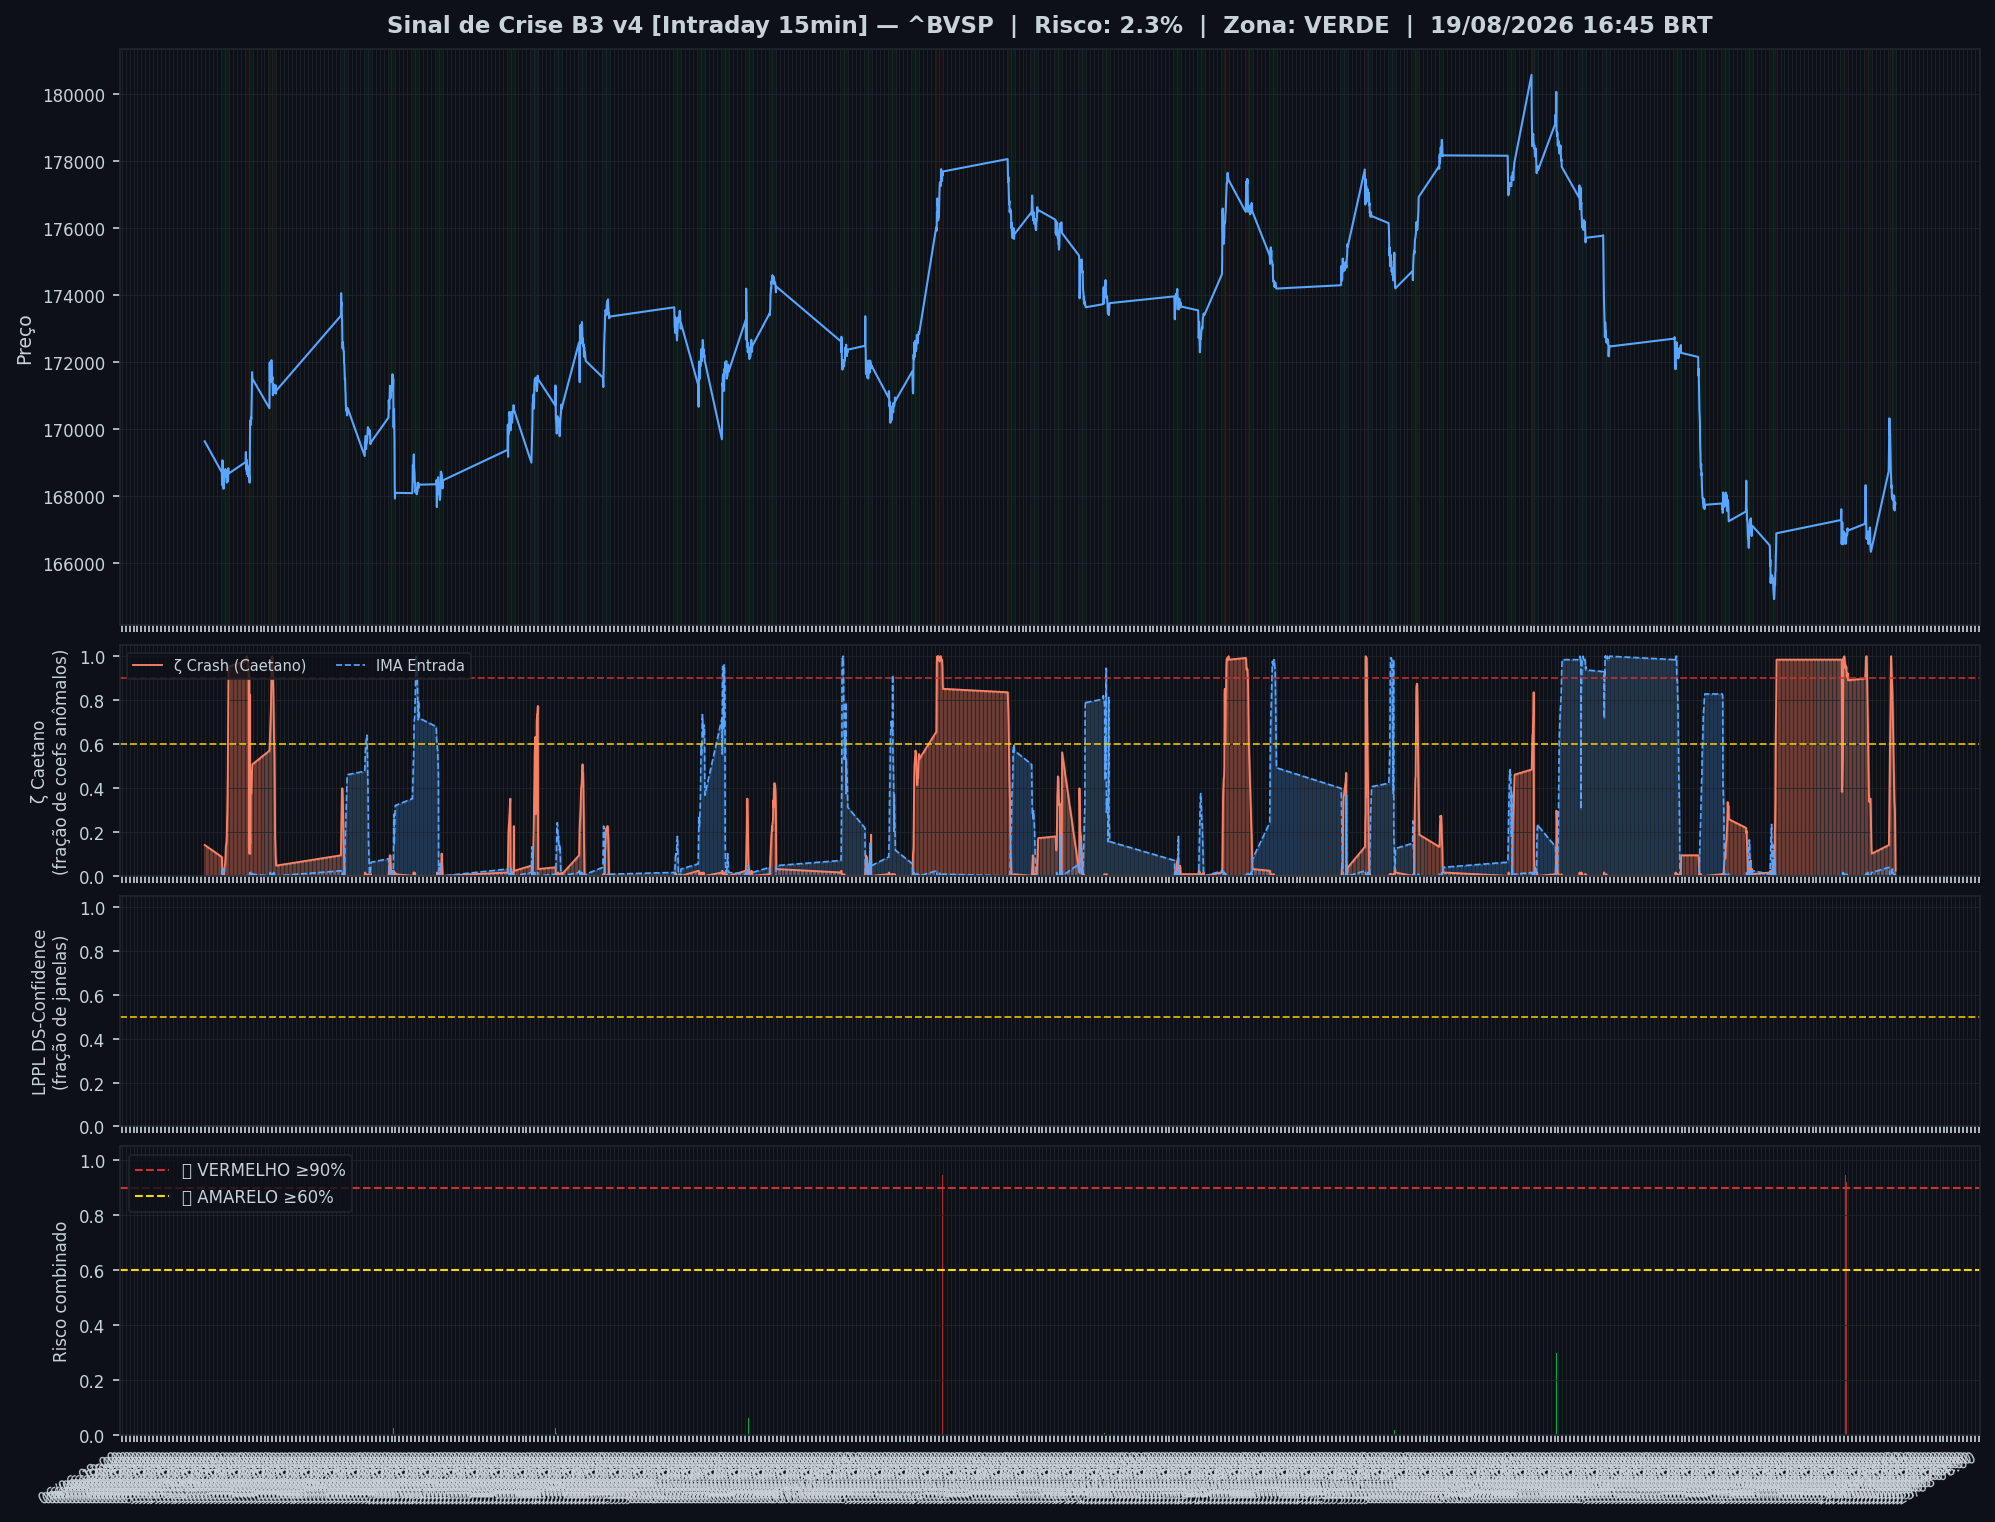
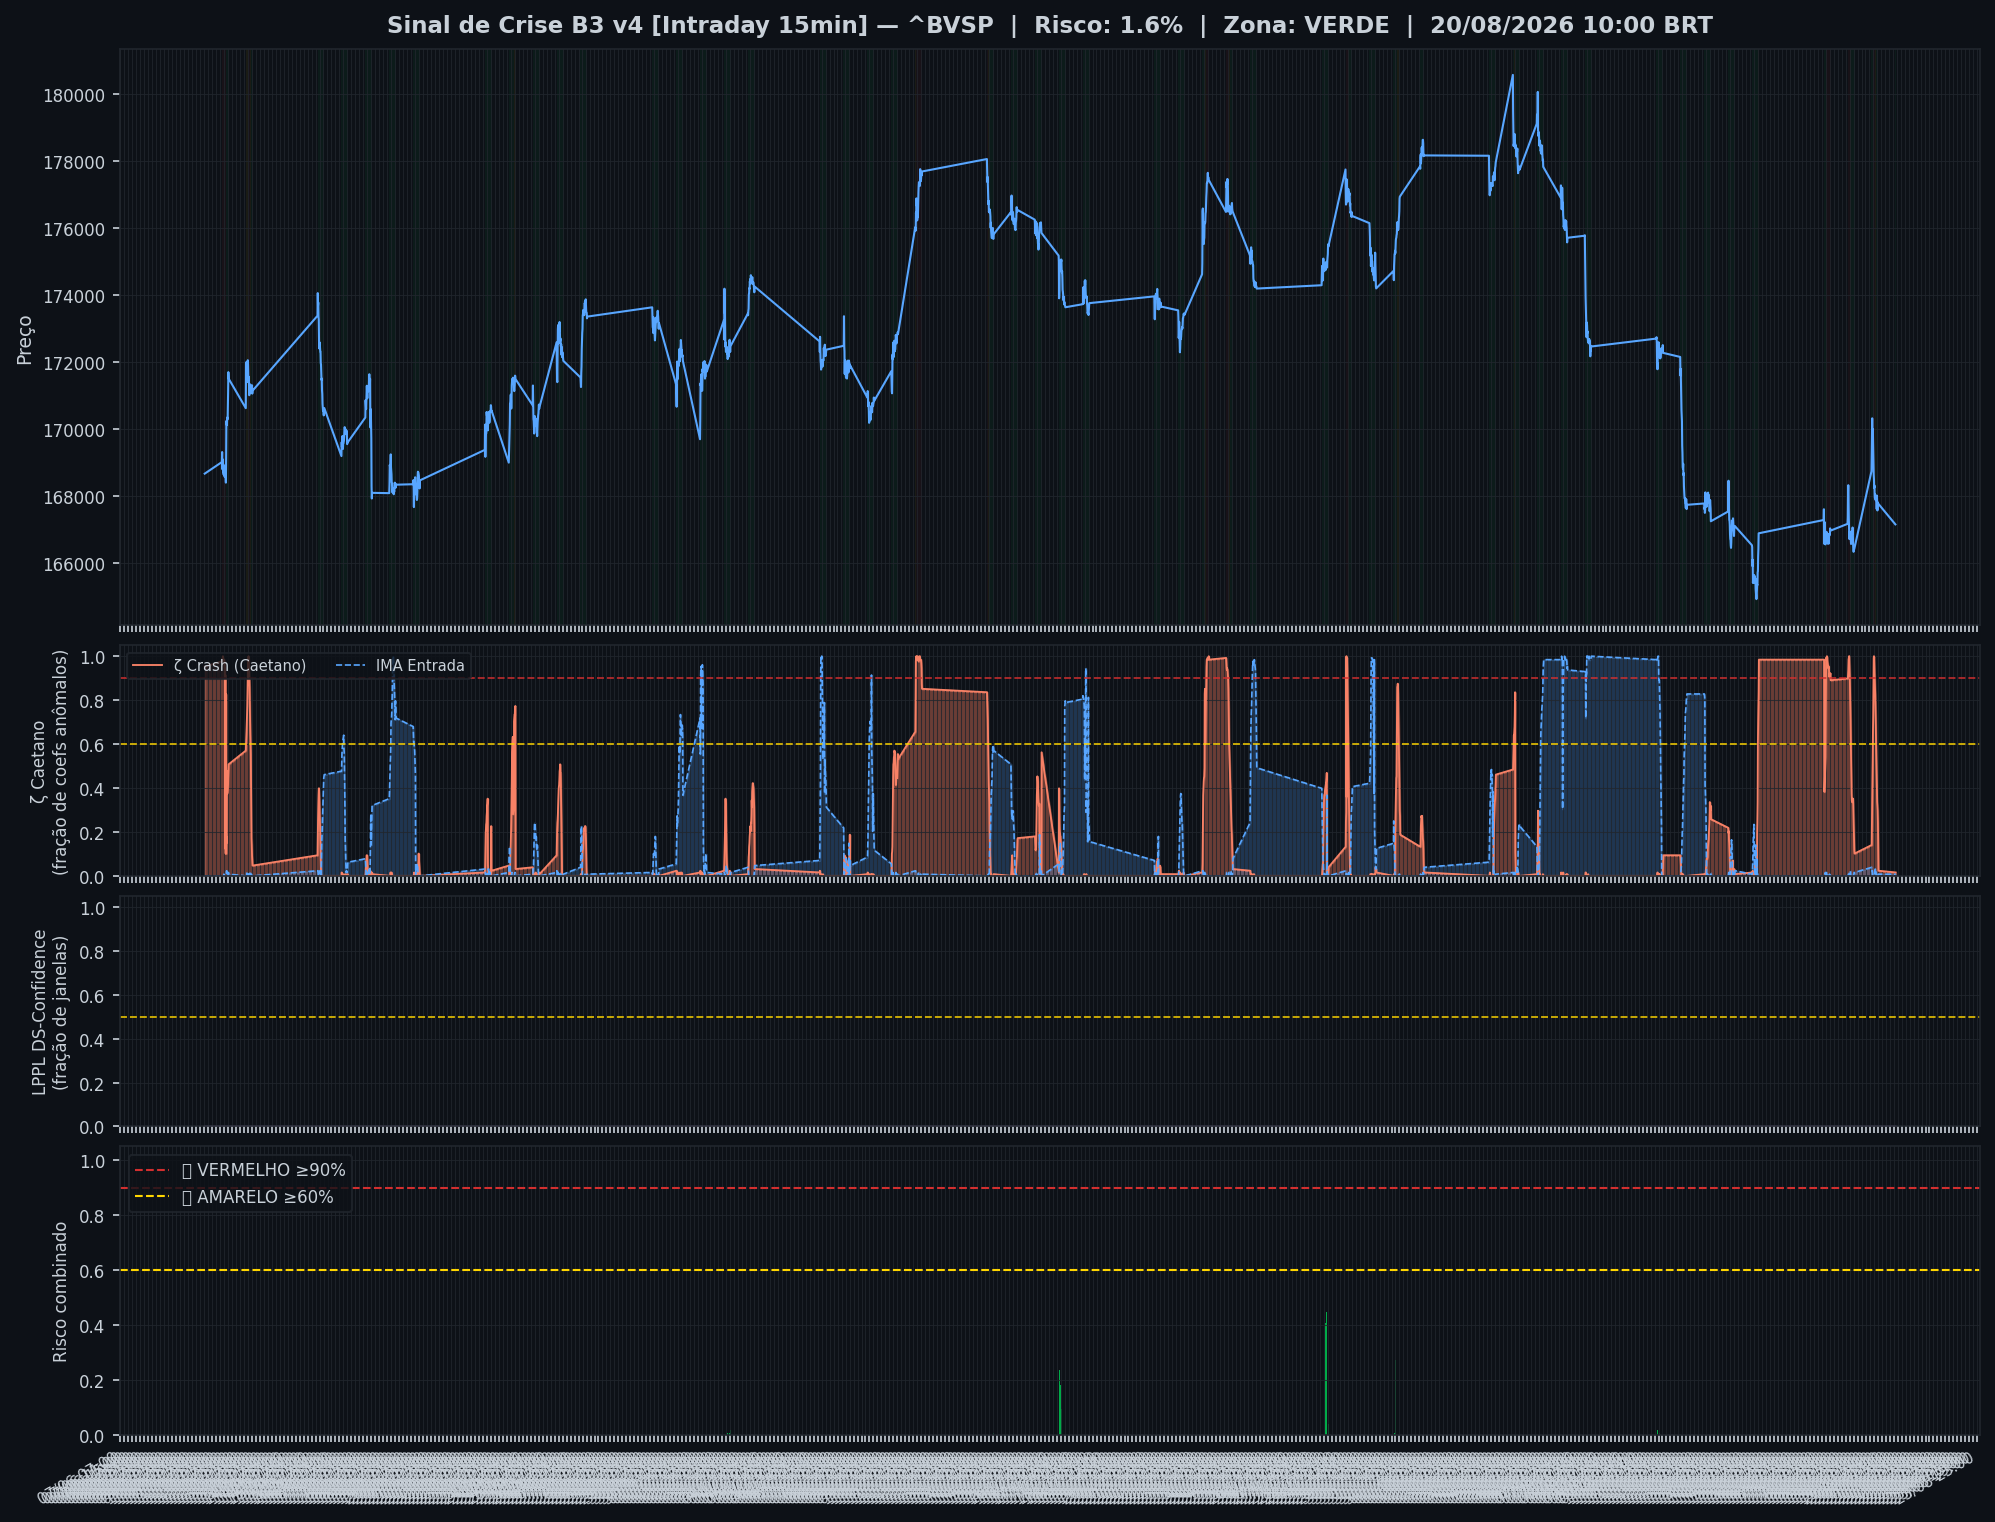
🤖 Auto: Sinal 20/08/2026 10:45

diff --git a/content/intraday/2026-08-20.md b/content/intraday/2026-08-20.md
@@ -1,0 +1,104 @@
+---
+title: "🟢 Intraday 20/08/2026 10:00 BRT — VERDE"
+date: 2026-08-20
+tags: [intraday]
+---
+
+> [!success] 🟢 **VERDE** — Risco 2% · ▼ -1 p.p. vs leitura anterior
+> `░░░░░░░░░░░░░░░░░░░░`
+> Mercado sem sinais relevantes de estresse.
+
+
+| Indicador | Valor |
+|---|---|
+| 🔴 ζ Crash — severidade da queda em curso | **2%** |
+| 🔵 ζ Entrada — estrutura de fundo | 1% |
+| 🫧 LPPL DS-Confidence | 0% |
+| 📊 Ibovespa | 167.143 pts |
+
+![Gráfico do sinal](../graficos/sinal_intraday.png)
+
+## Últimos 30 pregões
+
+| Data | Zona | Risco | IMA Crash | Entrada | LPPL |
+|---|---|---|---|---|---|
+| 2026-08-20 10:00 | 🟢 VERDE | **2%** | 2% | 1% | 0% |
+| 2026-08-19 16:45 | 🟢 VERDE | **2%** | 2% | 1% | 0% |
+| 2026-08-19 16:30 | 🟢 VERDE | **14%** | 14% | 1% | 0% |
+| 2026-08-19 16:15 | 🟢 VERDE | **24%** | 24% | 0% | 0% |
+| 2026-08-19 16:00 | 🟢 VERDE | **30%** | 30% | 1% | 0% |
+| 2026-08-19 15:45 | 🟢 VERDE | **32%** | 32% | 1% | 0% |
+| 2026-08-19 15:30 | 🟢 VERDE | **34%** | 34% | 0% | 0% |
+| 2026-08-19 15:15 | 🟢 VERDE | **39%** | 39% | 0% | 0% |
+| 2026-08-19 15:00 | 🟢 VERDE | **45%** | 45% | 0% | 0% |
+| 2026-08-19 14:45 | 🟡 AMARELO | **50%** | 50% | 0% | 0% |
+| 2026-08-19 14:30 | 🟡 AMARELO | **55%** | 55% | 1% | 0% |
+| 2026-08-19 14:15 | 🟡 AMARELO | **63%** | 63% | 2% | 0% |
+| 2026-08-19 14:00 | 🟡 AMARELO | **71%** | 71% | 2% | 0% |
+| 2026-08-19 13:45 | 🔴 VERMELHO | **77%** | 77% | 2% | 0% |
+| 2026-08-19 13:30 | 🔴 VERMELHO | **83%** | 83% | 3% | 0% |
+| 2026-08-19 13:15 | 🔴 VERMELHO | **86%** | 86% | 2% | 0% |
+| 2026-08-19 13:00 | 🔴 VERMELHO | **89%** | 89% | 2% | 0% |
+| 2026-08-19 12:45 | 🔴 VERMELHO | **93%** | 93% | 1% | 0% |
+| 2026-08-19 12:30 | 🔴 VERMELHO | **96%** | 96% | 0% | 0% |
+| 2026-08-19 12:15 | 🔴 VERMELHO | **100%** | 100% | 0% | 0% |
+| 2026-08-19 12:00 | 🔴 VERMELHO | **99%** | 99% | 0% | 0% |
+| 2026-08-19 11:45 | 🟡 AMARELO | **88%** | 88% | 0% | 0% |
+| 2026-08-19 11:30 | 🟡 AMARELO | **73%** | 73% | 0% | 0% |
+| 2026-08-19 11:15 | 🟡 AMARELO | **66%** | 66% | 0% | 0% |
+| 2026-08-19 11:00 | 🟢 VERDE | **58%** | 58% | 0% | 0% |
+| 2026-08-19 10:45 | 🟢 VERDE | **51%** | 51% | 1% | 0% |
+| 2026-08-19 10:30 | 🟢 VERDE | **38%** | 38% | 2% | 0% |
+| 2026-08-19 10:15 | 🟢 VERDE | **25%** | 25% | 2% | 0% |
+| 2026-08-19 10:00 | 🟢 VERDE | **14%** | 14% | 4% | 0% |
+| 2026-08-18 16:45 | 🟢 VERDE | **10%** | 10% | 2% | 0% |
+
+## Monitor Multi-Ativo
+
+**0% dos ativos em tensão** (0🔴 0🟡) — quanto mais ativos disparam juntos, mais confiável o sinal.
+
+| Zona | Ativo | Setor | IMA Crash | IMA Entrada |
+|---|---|---|---|---|
+| 🟢 | **USD/BRL** | Câmbio | 8.6% | 0.8% |
+| 🟢 | **VALE** | Mineração | 4.7% | 0.8% |
+| 🟢 | **ITAUUNIBANCO** | Financeiro | 4.7% | 0.8% |
+| 🟢 | **PETROBRAS** | Petróleo | 4.7% | 0.8% |
+| 🟢 | **AXIA ENERGIA** | Energia | 4.7% | 0.8% |
+| 🟢 | **PETROBRAS** | Petróleo | 4.7% | 0.8% |
+| 🟢 | **BRADESCO** | Financeiro | 4.7% | 0.8% |
+| 🟢 | **ITAUSA** | Financeiro | 4.7% | 0.8% |
+| 🟢 | **WEG** | Industrial | 4.7% | 0.8% |
+| 🟢 | **B3** | Financeiro | 4.7% | 0.8% |
+| 🟢 | **EMBRAER** | Outros | 4.7% | 0.8% |
+| 🟢 | **SABESP** | Saneamento | 4.7% | 0.8% |
+| 🟢 | **AMBEV S/A** | Consumo | 4.7% | 0.8% |
+| 🟢 | **BTGP BANCO** | Financeiro | 4.7% | 0.8% |
+| 🟢 | **BRASIL** | Financeiro | 4.7% | 0.8% |
+| 🟢 | **ENEVA** | Energia | 4.7% | 0.8% |
+| 🟢 | **PRIO** | Petróleo | 4.7% | 0.8% |
+| 🟢 | **EQUATORIAL** | Energia | 4.7% | 0.8% |
+| 🟢 | **VIBRA** | Energia | 4.7% | 0.8% |
+| 🟢 | **COPEL** | Energia | 4.7% | 0.8% |
+| 🟢 | **REDE D OR** | Saúde | 4.7% | 0.8% |
+| 🟢 | **ULTRAPAR** | Outros | 4.7% | 0.8% |
+| 🟢 | **LOCALIZA** | Aluguel | 4.7% | 0.8% |
+| 🟢 | **GERDAU** | Siderurgia | 4.7% | 0.8% |
+| 🟢 | **SUZANO S.A.** | Papel/Celulose | 4.7% | 0.8% |
+| 🟢 | **RAIADROGASIL** | Outros | 4.7% | 0.8% |
+
+![Monitor multi-ativo](../graficos/multi_intraday.png)
+
+*Página atualizada em 20/08/2026 10:45 BRT (leitura da barra de 2026-08-20 10:00 BRT).*
+
+> [!info]- Como interpretar (clique para expandir)
+> - **ζ Crash**: fração dos coeficientes wavelet acima do corte (Caetano & Yoneyama 2009). Escala absoluta: ζ=0,90 = 90% dos coeficientes anômalos — historicamente, quedas com ζ≥0,90 foram mais fundas e mais longas. **Mede a severidade do movimento em curso, não prevê o início da queda.**
+> - **ζ Entrada**: coeficientes negativos além do corte — estrutura de fundo, possível região de compra.
+> - **LPPL DS-Confidence**: fração de janelas (60–504 pregões) em que o modelo de bolha de Sornette produz um ajuste válido. 30% já é relevante; acima de 50% é forte evidência de estrutura de bolha.
+> - **Zonas com histerese**: o sinal só muda de zona ao cruzar o limiar de entrada, e só volta ao cruzar o de saída — evita flip-flop diário.
+
+
+---
+*Sinal de Crise B3 v4 · IMA Wavelet ([Caetano & Yoneyama, Physica-A 2007](https://doi.org/10.1016/j.physa.2007.03.054)) + LPPL DS-Confidence (Sornette, ETH-Zurich) · [Metodologia](metodologia) · [Histórico](historico)*
+
+> [!quote]- Aviso
+> Estudo acadêmico. Não constitui recomendação de investimento.

diff --git a/content/index.md b/content/index.md
@@ -1,6 +1,6 @@
 ---
 title: Sinal de Crise B3
-date: 2026-08-19
+date: 2026-08-20
 tags: [home]
 ---
 
@@ -8,21 +8,21 @@ tags: [home]
 
 Monitoramento diário e intraday do Ibovespa — **IMA Wavelet** (Prof. Marco Antonio Leonel Caetano, ITA/INSPER) + **LPPL DS-Confidence** (Prof. Didier Sornette, ETH-Zurich).
 
-*Última atualização: 19/08/2026 19:00 BRT · ^BVSP · Diário D1 · v4*
+*Última atualização: 20/08/2026 10:45 BRT · ^BVSP · Intraday 15min · v4*
 
-> [!success] 🟢 **VERDE** — Risco 0% · ＝ +0 p.p. vs leitura anterior
+> [!success] 🟢 **VERDE** — Risco 2% · ▼ -1 p.p. vs leitura anterior
 > `░░░░░░░░░░░░░░░░░░░░`
 > Mercado sem sinais relevantes de estresse.
 
 
 | Indicador | Valor |
 |---|---|
-| 🔴 ζ Crash — severidade da queda em curso | **0%** |
-| 🔵 ζ Entrada — estrutura de fundo | 27% |
+| 🔴 ζ Crash — severidade da queda em curso | **2%** |
+| 🔵 ζ Entrada — estrutura de fundo | 1% |
 | 🫧 LPPL DS-Confidence | 0% |
-| 📊 Ibovespa | 167.830 pts |
+| 📊 Ibovespa | 167.143 pts |
 
-**Multi-ativo:** 0% em tensão (0🔴 0🟡 de 25 ativos)
+**Multi-ativo:** 0% em tensão (0🔴 0🟡 de 26 ativos)
 
 
 > [!tip]- Calibração v4 (backtest 15y)
@@ -32,13 +32,9 @@ Monitoramento diário e intraday do Ibovespa — **IMA Wavelet** (Prof. Marco An
 
 | Data | Zona | Risco | IMA | LPPL |
 |---|---|---|---|---|
-| [18 Aug 2026](diario/2026-08-18) | 🟢 VERDE | **0%** | 0% | 0% |
-| [17 Aug 2026](diario/2026-08-17) | 🟢 VERDE | **0%** | 0% | 0% |
-| [16 Aug 2026](diario/2026-08-16) | 🟢 VERDE | **0%** | 0% | 0% |
-| [13 Aug 2026](diario/2026-08-13) | 🟢 VERDE | **0%** | 0% | 0% |
-| [12 Aug 2026](diario/2026-08-12) | 🟢 VERDE | **0%** | 0% | 0% |
-| [11 Aug 2026](diario/2026-08-11) | 🟢 VERDE | **0%** | 0% | 0% |
-| [10 Aug 2026](diario/2026-08-10) | 🟢 VERDE | **0%** | 1% | 0% |
+| [20 Aug 2026](diario/2026-08-20) | 🟢 VERDE | **2%** | 2% | 0% |
+| [19 Aug 2026](diario/2026-08-19) | 🟢 VERDE | **2%** | 2% | 0% |
+| [18 Aug 2026](diario/2026-08-18) | 🟢 VERDE | **10%** | 10% | 0% |
 
 ## Navegação
 

diff --git a/content/historico.md b/content/historico.md
@@ -7,6 +7,7 @@ tags: [historico]
 
 | Data | Modo | Zona | Risco | IMA | LPPL |
 |---|---|---|---|---|---|
+| 2026-08-20 10:00 | intraday | 🟢 VERDE | 2% | 2% | 0% |
 | 2026-08-18 | diario | 🟢 VERDE | 0% | 0% | 0% |
 | 2026-08-19 16:45 | intraday | 🟢 VERDE | 2% | 2% | 0% |
 | 2026-08-19 16:30 | intraday | 🟢 VERDE | 14% | 14% | 0% |
